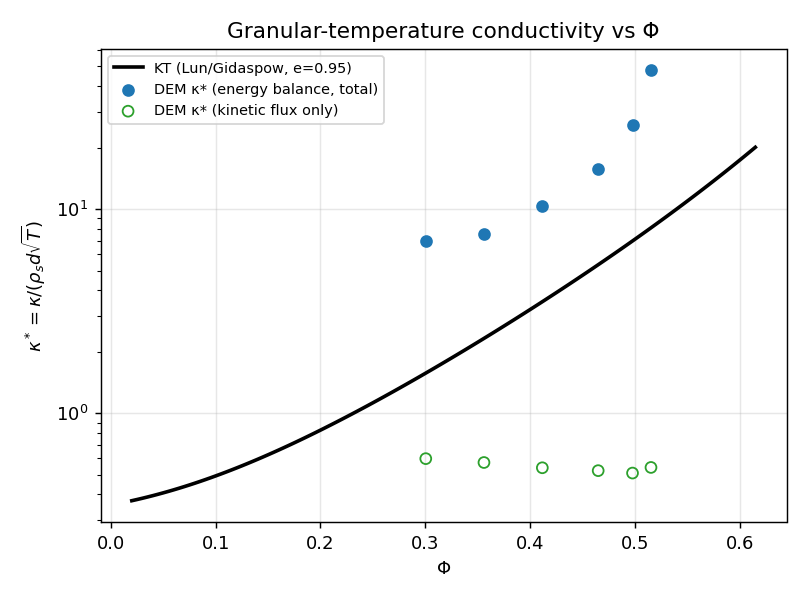
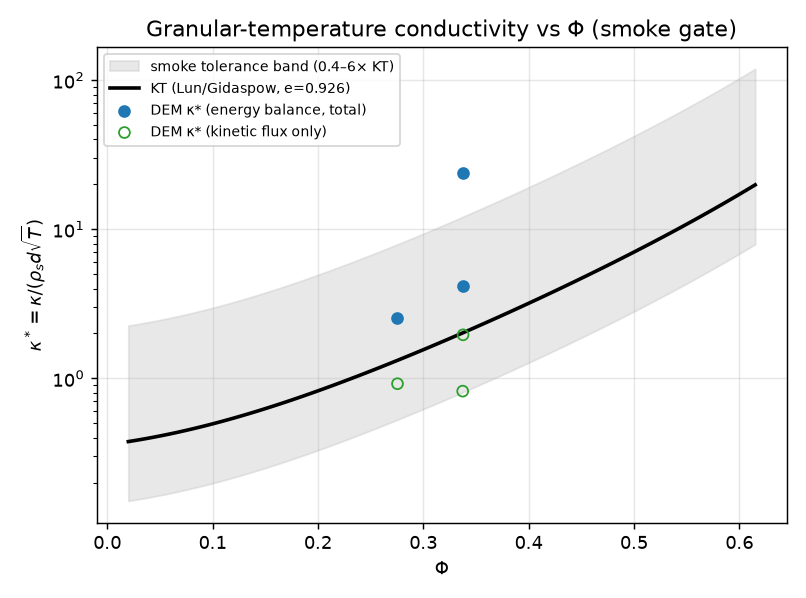
Embed granular conductivity validation plots

diff --git a/examples/bench_granular_conductivity/sweep.py b/examples/bench_granular_conductivity/sweep.py
@@ -96,15 +96,11 @@ def steady_profiles(frac=0.5, path=None):
     return ys, phi, T, qy
 
 
-def graph():
+def write_plots(ys, phi, T, qy, *, title_note=""):
     import matplotlib
     matplotlib.use("Agg")
     import matplotlib.pyplot as plt
     os.makedirs(PLOT_DIR, exist_ok=True)
-    if not os.path.isfile(DATA):
-        print("no data — run `start` first")
-        return
-    ys, phi, T, qy = steady_profiles()
     dy = ys[1] - ys[0]
 
     # --- Profiles ---
@@ -114,40 +110,35 @@ def graph():
     a3.plot(qy, ys, "o-", color="tab:green"); a3.set_xlabel(r"$q_y$ (kinetic) [W/m²]"); a3.set_title("Heat flux"); a3.axvline(0, c="k", lw=0.5)
     for a in (a1, a2, a3):
         a.grid(True, alpha=0.3)
-    fig.suptitle("Vibro-fluidized bed: steady profiles")
+    fig.suptitle(f"Vibro-fluidized bed: steady profiles{title_note}")
     fig.tight_layout(); fig.savefig(os.path.join(PLOT_DIR, "profiles.png"), dpi=130); plt.close(fig)
 
     # --- κ(Φ): energy-balance (integrated dissipation) + direct kinetic flux ---
-    n = len(ys)
-    Gamma = [dissipation(phi[i], T[i], E) for i in range(n)]
-    # Upward flux at each bin = total dissipation at/above it (per unit area).
-    q_up = [0.0] * n
-    run = 0.0
-    for i in range(n - 1, -1, -1):
-        run += Gamma[i] * dy
-        q_up[i] = run
-    phis, k_eb, k_kin = [], [], []
-    for i in range(1, n - 1):
-        dTdy = (T[i + 1] - T[i - 1]) / (2 * dy)
-        if dTdy >= 0 or T[i] <= 0 or phi[i] < 0.02 or phi[i] > 0.62:
-            continue
-        norm = RHO_S * D_MEAN * math.sqrt(T[i])      # κ → κ* = κ/(ρ_s d √T)
-        phis.append(phi[i])
-        k_eb.append(q_up[i] / (-dTdy) / norm)        # total κ* (energy balance)
-        k_kin.append(qy[i] / (-dTdy) / norm)         # kinetic-only κ* (direct, lower bound)
+    phis, k_eb, k_kin, _ = measure_kappa(ys, phi, T, qy)
 
     fig, ax = plt.subplots(figsize=(6.2, 4.6))
     phi_line = [0.02 + 0.005 * k for k in range(0, 120)]
-    ax.plot(phi_line, [kt_kappa_star(x, E) for x in phi_line], "k-", lw=2, label=f"KT (Lun/Gidaspow, e={E})")
+    kt_line = [kt_kappa_star(x, E) for x in phi_line]
+    ax.fill_between(phi_line, [0.4 * k for k in kt_line], [6.0 * k for k in kt_line],
+                    color="0.75", alpha=0.35, label="smoke tolerance band (0.4–6× KT)")
+    ax.plot(phi_line, kt_line, "k-", lw=2, label=f"KT (Lun/Gidaspow, e={E})")
     if phis:
         ax.scatter(phis, k_eb, c="tab:blue", zorder=3, label="DEM κ* (energy balance, total)")
         ax.scatter(phis, k_kin, facecolors="none", edgecolors="tab:green", zorder=3, label="DEM κ* (kinetic flux only)")
     ax.set_xlabel("Φ"); ax.set_ylabel(r"$\kappa^* = \kappa / (\rho_s d \sqrt{T})$")
-    ax.set_yscale("log"); ax.set_title("Granular-temperature conductivity vs Φ"); ax.legend(fontsize=8); ax.grid(True, alpha=0.3)
+    ax.set_yscale("log"); ax.set_title(f"Granular-temperature conductivity vs Φ{title_note}"); ax.legend(fontsize=8); ax.grid(True, alpha=0.3)
     fig.tight_layout(); fig.savefig(os.path.join(PLOT_DIR, "kappa_of_phi.png"), dpi=130); plt.close(fig)
     print(f"wrote {PLOT_DIR}/profiles.png and kappa_of_phi.png")
     if phis:
         print(f"κ* range (energy-balance): {min(k_eb):.2f}–{max(k_eb):.2f} over Φ {min(phis):.3f}–{max(phis):.3f}")
+
+
+def graph():
+    if not os.path.isfile(DATA):
+        print("no data — run `start` first")
+        return
+    ys, phi, T, qy = steady_profiles()
+    write_plots(ys, phi, T, qy)
 
 
 def measure_kappa(ys, phi, T, qy):
@@ -234,6 +225,8 @@ def smoke():
     for ok, msg in checks:
         print(f"  [{'PASS' if ok else 'FAIL'}] {msg}")
     ok = all(ok for ok, _ in checks)
+    if ok:
+        write_plots(ys, phi, T, qy, title_note=" (smoke gate)")
     print(f"\n{npass}/{len(checks)} checks passed")
     print("ALL CHECKS PASSED" if ok else "CHECKS FAILED")
     sys.exit(0 if ok else 1)

diff --git a/examples/VALIDATION.md b/examples/VALIDATION.md
@@ -485,6 +485,32 @@ and the sweep stops at μ = 0.3 (the angle saturates above). The heap now stands
 **real frictional floor wall** (the earlier frozen-bed workaround was removed once
 `dirt_wall` gained tangential friction).
 
+## `bench_granular_conductivity` — granular-temperature conductivity
+
+A vibro-fluidized bed reaches steady solid-fraction and granular-temperature
+profiles. Integrating inelastic dissipation from the top down gives the upward
+energy flux, so the benchmark extracts a dimensionless Fourier-law conductivity
+`κ*(Φ)` and compares it to the Lun/Gidaspow kinetic-theory reference. The bounded
+smoke gate checks that the energy-balance estimate is positive, finite, and within
+an order-unity band around KT.
+
+![Dimensionless conductivity vs kinetic theory](bench_granular_conductivity/plots/kappa_of_phi.png)
+
+*Measured `κ*(Φ)` from DIRT against the kinetic-theory curve. The shaded 0.4-6x
+band is the smoke PASS window; open markers show the kinetic-flux-only lower-bound
+estimate.*
+
+![Steady vibro-fluidized profiles](bench_granular_conductivity/plots/profiles.png)
+
+*Steady Φ(y), T(y), and kinetic heat-flux profiles used for the conductivity
+extraction.*
+
+**Honest read:** the smoke gate is deliberately broad and catches sign, NaN, and
+order-of-magnitude regressions; the dense-bed heat flux also has a `∇Φ` contribution
+outside the simple Fourier form. The full scientific run is unchanged but remains
+too long for the default automation cap, so the committed figure is regenerated
+from the bounded smoke output.
+
 ## `bench_column_collapse` — granular column runout
 
 A quasi-2D column is released on a flat frictional floor; the runout `L_f` vs aspect

diff --git a/examples/bench_granular_conductivity/README.md b/examples/bench_granular_conductivity/README.md
@@ -54,6 +54,17 @@ requires). The **directly measured** kinetic heat flux `q_y` gives an independen
 κ estimate (a lower bound, since it omits the collisional flux that dominates at
 dense Φ) — plotted as open markers.
 
+![Dimensionless conductivity vs kinetic theory](plots/kappa_of_phi.png)
+
+*Measured dimensionless conductivity `κ*(Φ)` from the DEM column against the
+Lun/Gidaspow kinetic-theory reference. The shaded band is the smoke gate's
+order-unity acceptance window (0.4-6x KT); `sweep.py smoke` prints PASS/FAIL.*
+
+![Steady vibro-fluidized profiles](plots/profiles.png)
+
+*Steady solid fraction, granular temperature, and kinetic heat-flux profiles used
+to extract `κ*(Φ)` from the conduction-dissipation balance.*
+
 ## De-fluidization (same rig)
 
 Set the base `oscillate.amplitude = 0` (restart from a fluidized state): the bed
